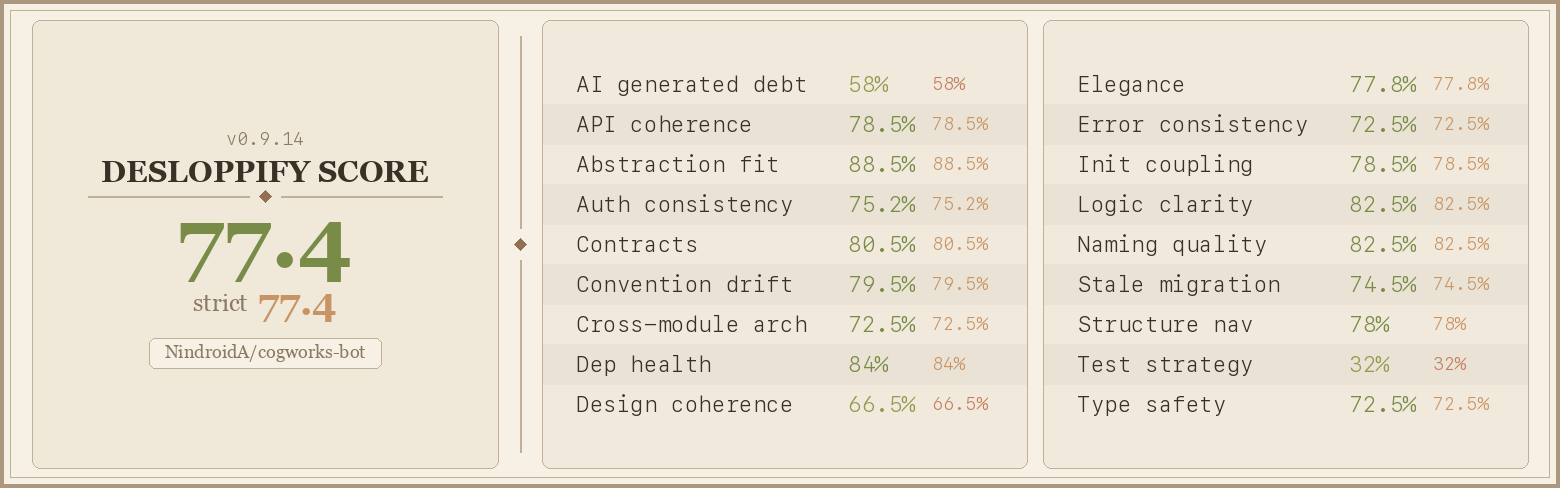
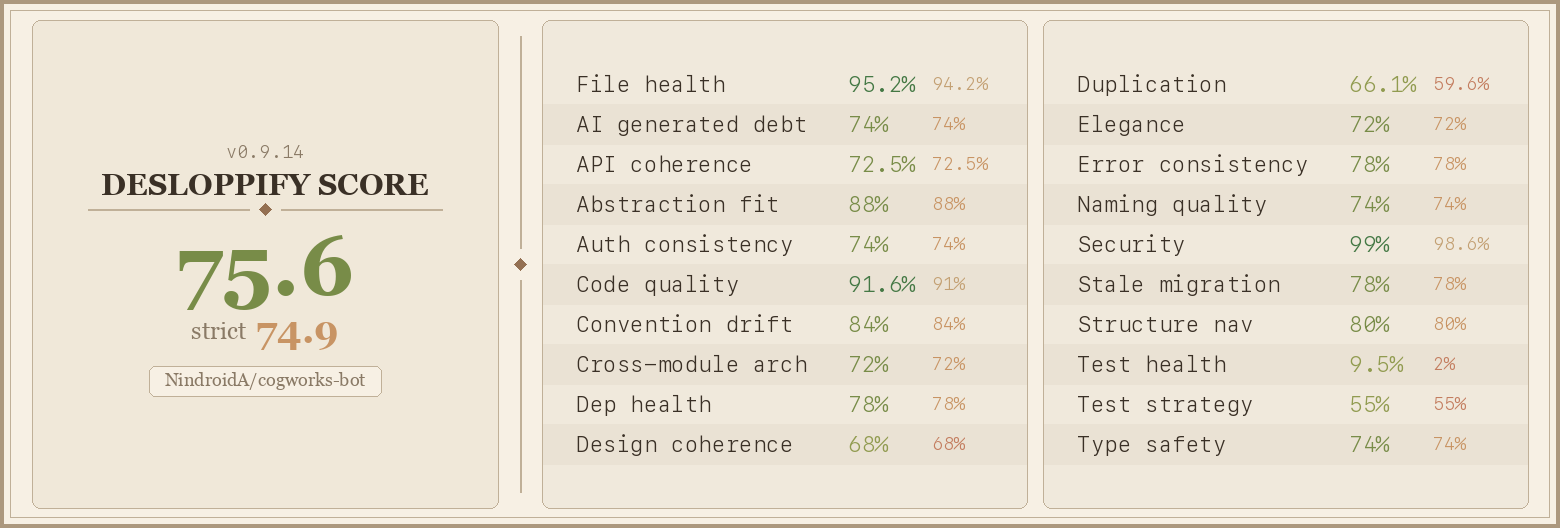
fix: desloppify rescore — security fixes, dead code removal, API consistency (v3.0.8)
Security:
- Timing-safe auth comparison in maintenance.ts (was string !==)
- Replace weak isUrlSafe in guildWebhook.ts with shared validateSafeUrl
  (adds IPv6, .local, fc/fd range, HTTPS-only coverage)

Cleanup:
- Remove 3 dead exports from utils/types.ts (getGuildId, DownloadOptions,
  SavedRoleTypes — zero importers)
- Replace raw typeof body.weight with optionalNumber() helper
- Convert baitChannelHandlers.ts and setupHandlers.ts to lazyRepo()
- Accept triggeredBy alongside approvedBy/deniedBy for API consistency

Rescore: strict 82.8/100 (up from 74.9), objective 100%, scorecard regenerated

diff --git a/src/utils/api/handlers/setupHandlers.ts b/src/utils/api/handlers/setupHandlers.ts
@@ -17,10 +17,11 @@ import { RulesConfig } from '../../../typeorm/entities/rules';
 import { DEFAULT_SYSTEM_STATES, SetupState, type SystemStates } from '../../../typeorm/entities/SetupState';
 import { ArchivedTicketConfig } from '../../../typeorm/entities/ticket/ArchivedTicketConfig';
 import { TicketConfig } from '../../../typeorm/entities/ticket/TicketConfig';
+import { lazyRepo } from '../../database/lazyRepo';
 import { optionalStringArray, requireBoolean, requireString } from '../helpers';
 import type { RouteHandler } from '../router';
 
-const setupStateRepo = () => AppDataSource.getRepository(SetupState);
+const setupStateRepo = lazyRepo(SetupState);
 
 /**
  * Detect system states from actual DB configs (same logic as setupDashboard.ts).
@@ -77,7 +78,7 @@ export function registerSetupHandlers(routes: Map<string, RouteHandler>): void {
    */
   routes.set('GET /setup/state', async guildId => {
     const dbStates = await detectSystemStates(guildId);
-    const setupState = await setupStateRepo().findOneBy({ guildId });
+    const setupState = await setupStateRepo.findOneBy({ guildId });
 
     return {
       guildId,
@@ -98,10 +99,10 @@ export function registerSetupHandlers(routes: Map<string, RouteHandler>): void {
   routes.set('POST /setup/systems', async (guildId, body) => {
     const enabledSystems = optionalStringArray(body, 'enabledSystems') ?? null;
 
-    let state = await setupStateRepo().findOneBy({ guildId });
+    let state = await setupStateRepo.findOneBy({ guildId });
     if (!state) {
       const dbStates = await detectSystemStates(guildId);
-      state = setupStateRepo().create({
+      state = setupStateRepo.create({
         guildId,
         selectedSystems: enabledSystems ?? null,
         systemStates: dbStates,
@@ -111,7 +112,7 @@ export function registerSetupHandlers(routes: Map<string, RouteHandler>): void {
       state.selectedSystems = enabledSystems ?? null;
     }
 
-    await setupStateRepo().save(state);
+    await setupStateRepo.save(state);
 
     return {
       success: true,
@@ -130,16 +131,16 @@ export function registerSetupHandlers(routes: Map<string, RouteHandler>): void {
     const systemId = requireString(body, 'systemId');
     const enabled = requireBoolean(body, 'enabled');
 
-    let state = await setupStateRepo().findOneBy({ guildId });
+    let state = await setupStateRepo.findOneBy({ guildId });
     if (!state) {
       const dbStates = await detectSystemStates(guildId);
-      state = setupStateRepo().create({
+      state = setupStateRepo.create({
         guildId,
         selectedSystems: null,
         systemStates: dbStates,
         partialData: null,
       });
-      await setupStateRepo().save(state);
+      await setupStateRepo.save(state);
     }
 
     // Build the current enabled set
@@ -162,7 +163,7 @@ export function registerSetupHandlers(routes: Map<string, RouteHandler>): void {
     }
 
     state.selectedSystems = currentEnabled.size === allSystemIds.length ? null : [...currentEnabled];
-    await setupStateRepo().save(state);
+    await setupStateRepo.save(state);
 
     return {
       success: true,

diff --git a/src/utils/api/handlers/baitChannelHandlers.ts b/src/utils/api/handlers/baitChannelHandlers.ts
@@ -1,14 +1,14 @@
 import type { Client } from 'discord.js';
 import { MoreThanOrEqual } from 'typeorm';
-import { AppDataSource } from '../../../typeorm';
 import { BaitChannelLog } from '../../../typeorm/entities/bait/BaitChannelLog';
 import { BaitKeyword } from '../../../typeorm/entities/bait/BaitKeyword';
 import { JoinEvent } from '../../../typeorm/entities/bait/JoinEvent';
 import type { BaitChannelManager } from '../../baitChannel/baitChannelManager';
 import { DEFAULT_KEYWORDS } from '../../baitChannel/defaultKeywords';
 import { MAX } from '../../constants';
+import { lazyRepo } from '../../database/lazyRepo';
 import { ApiError } from '../apiError';
-import { optionalString, requireString } from '../helpers';
+import { optionalNumber, optionalString, requireString } from '../helpers';
 import type { RouteHandler } from '../router';
 import { writeAuditLog } from './auditHelper';
 
@@ -16,9 +16,11 @@ type ClientWithBaitManager = Client & {
   baitChannelManager?: BaitChannelManager;
 };
 
-export function registerBaitChannelHandlers(client: Client, routes: Map<string, RouteHandler>): void {
-  const keywordRepo = AppDataSource.getRepository(BaitKeyword);
+const keywordRepo = lazyRepo(BaitKeyword);
+const logRepo = lazyRepo(BaitChannelLog);
+const joinEventRepo = lazyRepo(JoinEvent);
 
+export function registerBaitChannelHandlers(client: Client, routes: Map<string, RouteHandler>): void {
   // GET /internal/guilds/:guildId/bait-channel/keywords
   routes.set('GET /bait-channel/keywords', async guildId => {
     const keywords = await keywordRepo.find({
@@ -31,7 +33,7 @@ export function registerBaitChannelHandlers(client: Client, routes: Map<string, 
   // POST /internal/guilds/:guildId/bait-channel/keywords/add
   routes.set('POST /bait-channel/keywords/add', async (guildId, body) => {
     const keyword = requireString(body, 'keyword').toLowerCase();
-    const weight = typeof body.weight === 'number' ? body.weight : 5;
+    const weight = optionalNumber(body, 'weight') ?? 5;
     const triggeredBy = optionalString(body, 'triggeredBy');
 
     if (keyword.length < 1 || keyword.length > 100) {
@@ -114,9 +116,6 @@ export function registerBaitChannelHandlers(client: Client, routes: Map<string, 
 
     return { success: true, count: DEFAULT_KEYWORDS.length };
   });
-
-  const logRepo = AppDataSource.getRepository(BaitChannelLog);
-  const joinEventRepo = AppDataSource.getRepository(JoinEvent);
 
   // POST /internal/guilds/:guildId/bait-channel/override
   // Mark the most recent BaitChannelLog for a user as overridden

diff --git a/src/utils/types.ts b/src/utils/types.ts
@@ -1,48 +1,5 @@
-/**
- * Types Module
- *
- * Shared TypeScript type definitions used across the bot.
- */
-
-import type { CacheType, ChatInputCommandInteraction } from 'discord.js';
-
-/**
- * Extracts and narrows `interaction.guildId` to a non-null string.
- * Throws if the interaction was invoked outside a guild (DM context).
- *
- * Use this instead of `interaction.guildId!` to get type-safe narrowing:
- * ```ts
- * const guildId = getGuildId(interaction);
- * // guildId is `string`, not `string | null`
- * ```
- */
-export function getGuildId(interaction: ChatInputCommandInteraction<CacheType>): string {
-  const guildId = interaction.guildId;
-  if (!guildId) {
-    throw new Error('Command must be used in a guild');
-  }
-  return guildId;
-}
-
 /** Possible states for a support ticket (includes workflow custom statuses via string) */
 export type TicketStatus = 'created' | 'opened' | 'closed' | 'adminOnly' | 'error' | (string & {});
 
 /** Possible states for a staff application (includes workflow custom statuses via string) */
 export type ApplicationStatus = 'created' | 'opened' | 'closed' | 'accepted' | 'rejected' | 'error' | (string & {});
-
-/** Types of saved roles that can be managed */
-export type SavedRoleTypes = 'staff' | 'admin';
-
-/**
- * Options for downloading and archiving Discord data
- */
-export interface DownloadOptions {
-  /** Output directory for downloaded files */
-  outputDir: string;
-  /** Skip files that already exist */
-  skipExisting?: boolean;
-  /** Number of items to download at once */
-  batchSize?: number;
-  /** Max retry attempts for failed downloads */
-  maxRetries?: number;
-}

diff --git a/src/utils/api/guildWebhook.ts b/src/utils/api/guildWebhook.ts
@@ -1,4 +1,5 @@
 import { enhancedLogger, LogCategory } from '../monitoring/enhancedLogger';
+import { validateSafeUrl } from '../validation/inputSanitizer';
 
 const API_URL = process.env.API_URL;
 
@@ -15,33 +16,11 @@ export async function notifyGuildLeave(guildId: string): Promise<void> {
   await sendWebhook('guild-leave', { guildId });
 }
 
-function isUrlSafe(url: string): boolean {
-  try {
-    const parsed = new URL(url);
-    if (!['http:', 'https:'].includes(parsed.protocol)) return false;
-    // Block private/internal IPs
-    const host = parsed.hostname;
-    if (
-      host === 'localhost' ||
-      host.startsWith('127.') ||
-      host.startsWith('10.') ||
-      host.startsWith('192.168.') ||
-      host === '169.254.169.254' ||
-      /^172\.(1[6-9]|2\d|3[01])\./.test(host)
-    ) {
-      return false;
-    }
-    return true;
-  } catch {
-    return false;
-  }
-}
-
 async function sendWebhook(event: string, body: Record<string, unknown>): Promise<void> {
   if (!API_URL) return;
 
   const IS_DEV = (process.env.RELEASE || 'prod').toLowerCase().trim() === 'dev';
-  if (!IS_DEV && !isUrlSafe(API_URL)) {
+  if (!IS_DEV && validateSafeUrl(API_URL) !== null) {
     enhancedLogger.warn('API_URL blocked by URL safety check', LogCategory.API, { url: API_URL });
     return;
   }

diff --git a/src/utils/api/handlers/applicationHandlers.ts b/src/utils/api/handlers/applicationHandlers.ts
@@ -20,7 +20,7 @@ export function registerApplicationHandlers(client: Client, routes: Map<string, 
   // POST /internal/guilds/:guildId/applications/:id/approve
   routes.set('POST /applications/:id/approve', async (guildId, body, url) => {
     const appId = requireId(url, 'applications');
-    const approvedBy = requireString(body, 'approvedBy');
+    const approvedBy = optionalString(body, 'triggeredBy') ?? requireString(body, 'approvedBy');
 
     const app = await applicationRepo.findOneBy({ guildId, id: appId });
     if (!app) throw ApiError.notFound('Application not found');
@@ -44,7 +44,7 @@ export function registerApplicationHandlers(client: Client, routes: Map<string, 
   // POST /internal/guilds/:guildId/applications/:id/deny
   routes.set('POST /applications/:id/deny', async (guildId, body, url) => {
     const appId = requireId(url, 'applications');
-    const deniedBy = requireString(body, 'deniedBy');
+    const deniedBy = optionalString(body, 'triggeredBy') ?? requireString(body, 'deniedBy');
 
     const app = await applicationRepo.findOneBy({ guildId, id: appId });
     if (!app) throw ApiError.notFound('Application not found');

diff --git a/src/maintenance.ts b/src/maintenance.ts
@@ -8,6 +8,7 @@
  * Activated by MAINTENANCE_MODE=true in env.
  */
 
+import { timingSafeEqual } from 'node:crypto';
 import { createServer, type Server, type ServerResponse } from 'node:http';
 import { ActivityType, Client, EmbedBuilder, GatewayIntentBits, type Interaction, MessageFlags } from 'discord.js';
 import { version } from '../package.json';
@@ -113,9 +114,14 @@ function startMaintenanceApi(): Server {
   }
 
   const server = createServer((req, res: ServerResponse) => {
-    // Auth check
+    // Auth check (timing-safe to prevent timing attacks)
     const authHeader = req.headers.authorization;
-    if (!authHeader || authHeader !== `Bearer ${token}`) {
+    const expected = `Bearer ${token}`;
+    if (
+      !authHeader ||
+      authHeader.length !== expected.length ||
+      !timingSafeEqual(Buffer.from(authHeader), Buffer.from(expected))
+    ) {
       sendJson(res, 401, { error: 'Unauthorized' });
       return;
     }

diff --git a/CHANGELOG.md b/CHANGELOG.md
@@ -5,6 +5,18 @@ All notable changes to this project will be documented in this file.
 The format is based on [Keep a Changelog](https://keepachangelog.com/en/1.1.0/),
 and this project adheres to [Semantic Versioning](https://semver.org/spec/v2.0.0.html).
 
+## [3.0.8]
+
+### Fixed
+- **Desloppify Rescore + Fixes**: Fresh 20-dimension subjective review and targeted fixes
+  - Timing-safe auth comparison in `maintenance.ts` (was using string `!==` instead of `timingSafeEqual`)
+  - Removed 3 dead exports from `utils/types.ts` (getGuildId, DownloadOptions, SavedRoleTypes)
+  - Replaced duplicate SSRF-weak `isUrlSafe` in guildWebhook.ts with shared `validateSafeUrl`
+  - Fixed raw `typeof body.weight` in baitChannelHandlers.ts — now uses `optionalNumber()` helper
+  - Unified repo access: baitChannelHandlers.ts and setupHandlers.ts now use `lazyRepo()` like all other API handlers
+  - API field name consistency: approve/deny endpoints now accept `triggeredBy` (alongside legacy `approvedBy`/`deniedBy`)
+- **Scorecard**: Strict score 82.8/100 (up from 74.9), objective score 100%, scorecard regenerated
+
 ## [3.0.7]
 
 ### Changed

diff --git a/CLAUDE.md b/CLAUDE.md
@@ -5,7 +5,7 @@
 - **Runtime**: Bun
 - **Deployment**: Docker containers
 - **Branches**: `main` (production)
-- **Version**: 3.0.7
+- **Version**: 3.0.8
 
 ## Critical Rules
 
